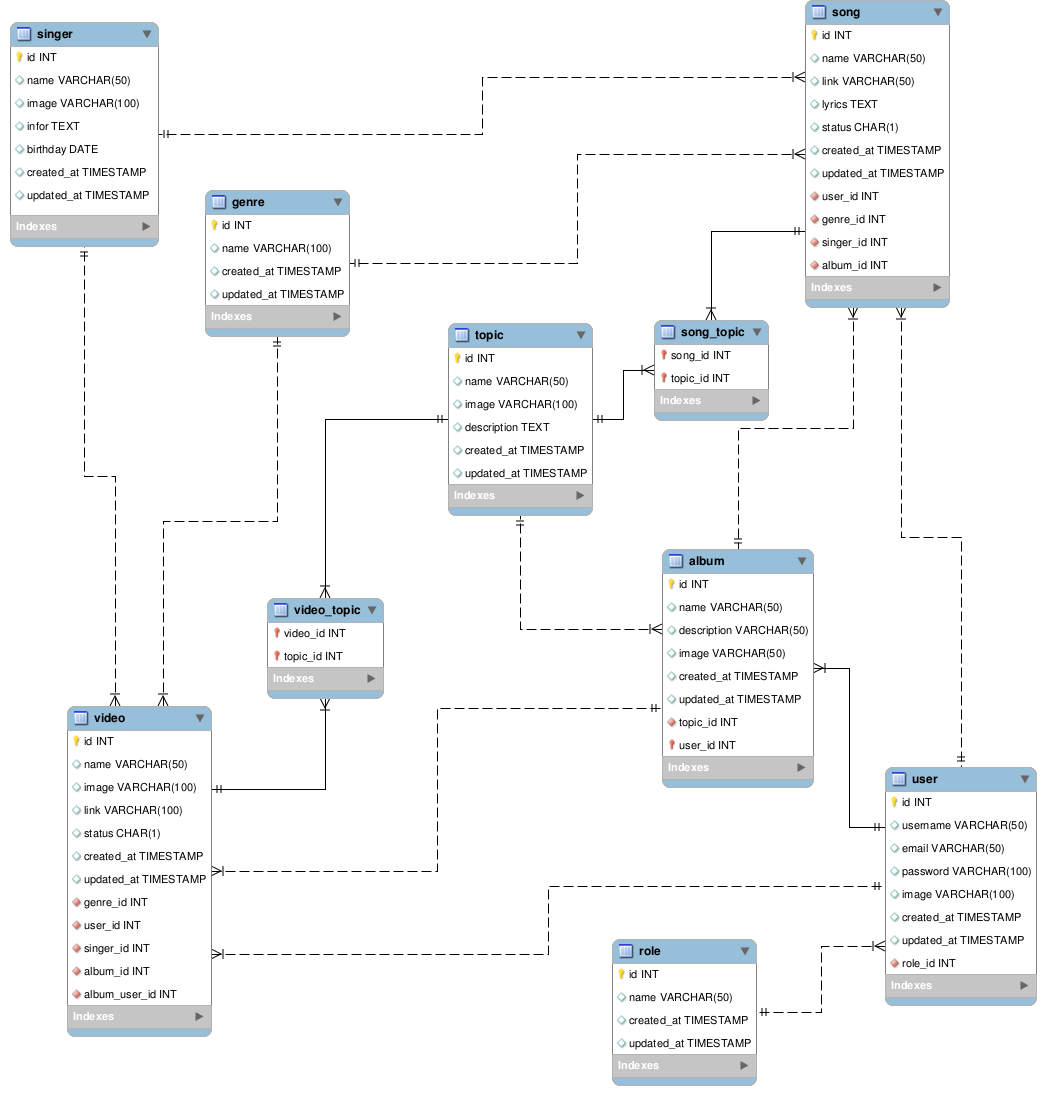
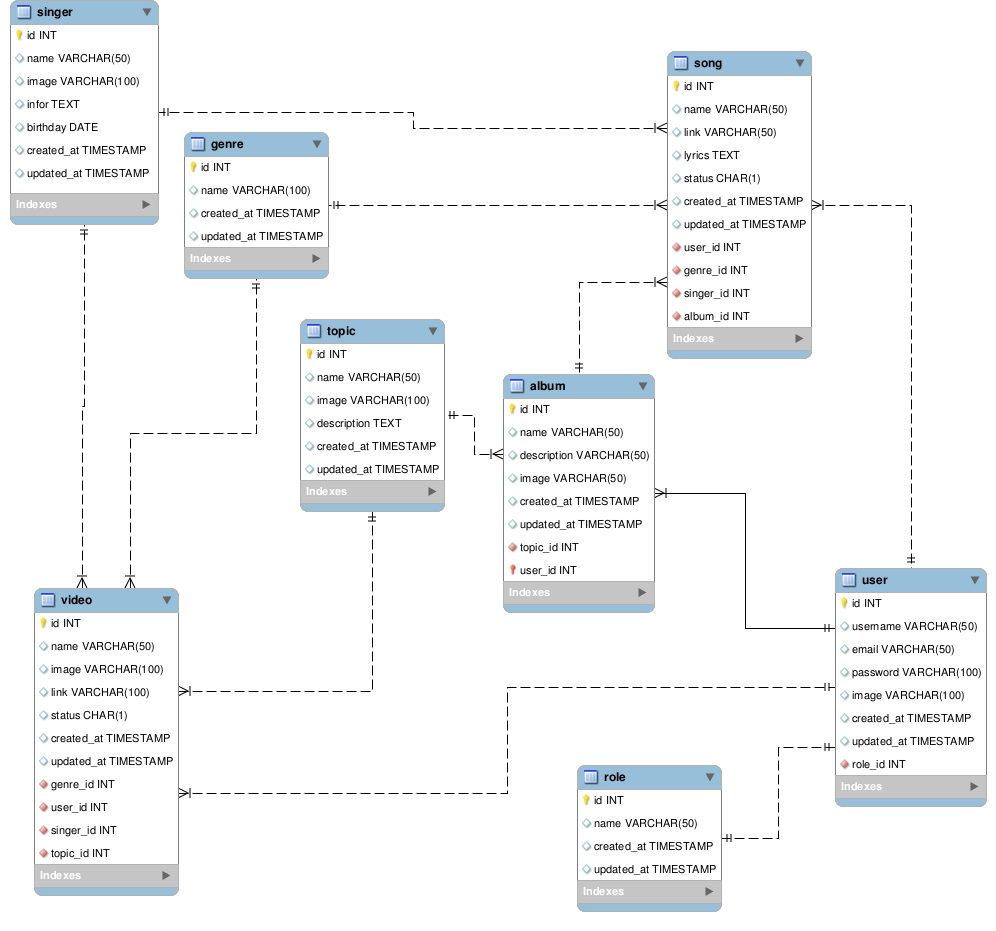
Modify database

diff --git a/database/migrations/2016_08_19_032818_create_videos_table.php b/database/migrations/2016_08_19_032818_create_videos_table.php
@@ -24,8 +24,8 @@ class CreateVideosTable extends Migration
             $table->foreign('user_id')->references('id')->on('users')->onDelete('cascade');
             $table->integer('singer_id')->unsigned();
             $table->foreign('singer_id')->references('id')->on('singers')->onDelete('cascade');
-            $table->integer('album_id')->unsigned();
-            $table->foreign('album_id')->references('id')->on('albums')->onDelete('cascade');
+            $table->integer('topic_id')->unsigned();
+            $table->foreign('topic_id')->references('id')->on('topics')->onDelete('cascade');
             $table->timestamps();
         });
     }
